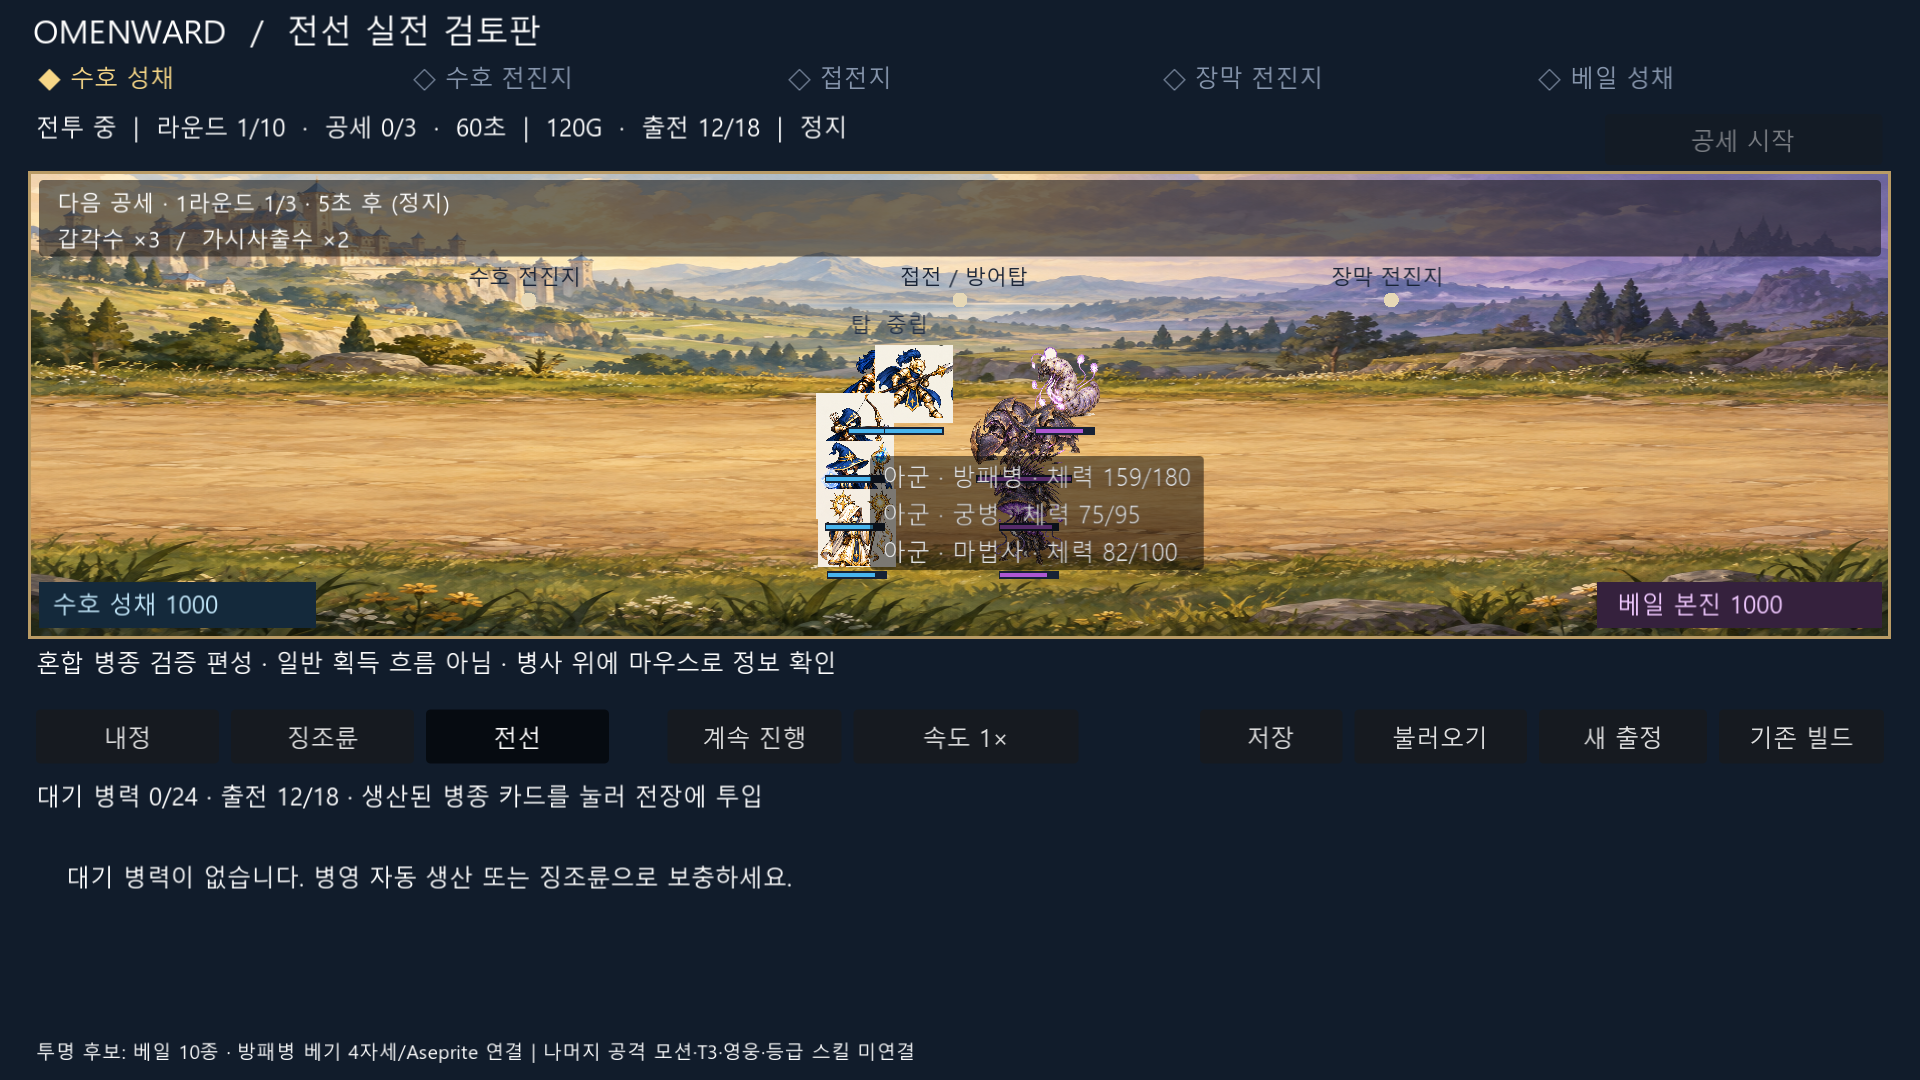
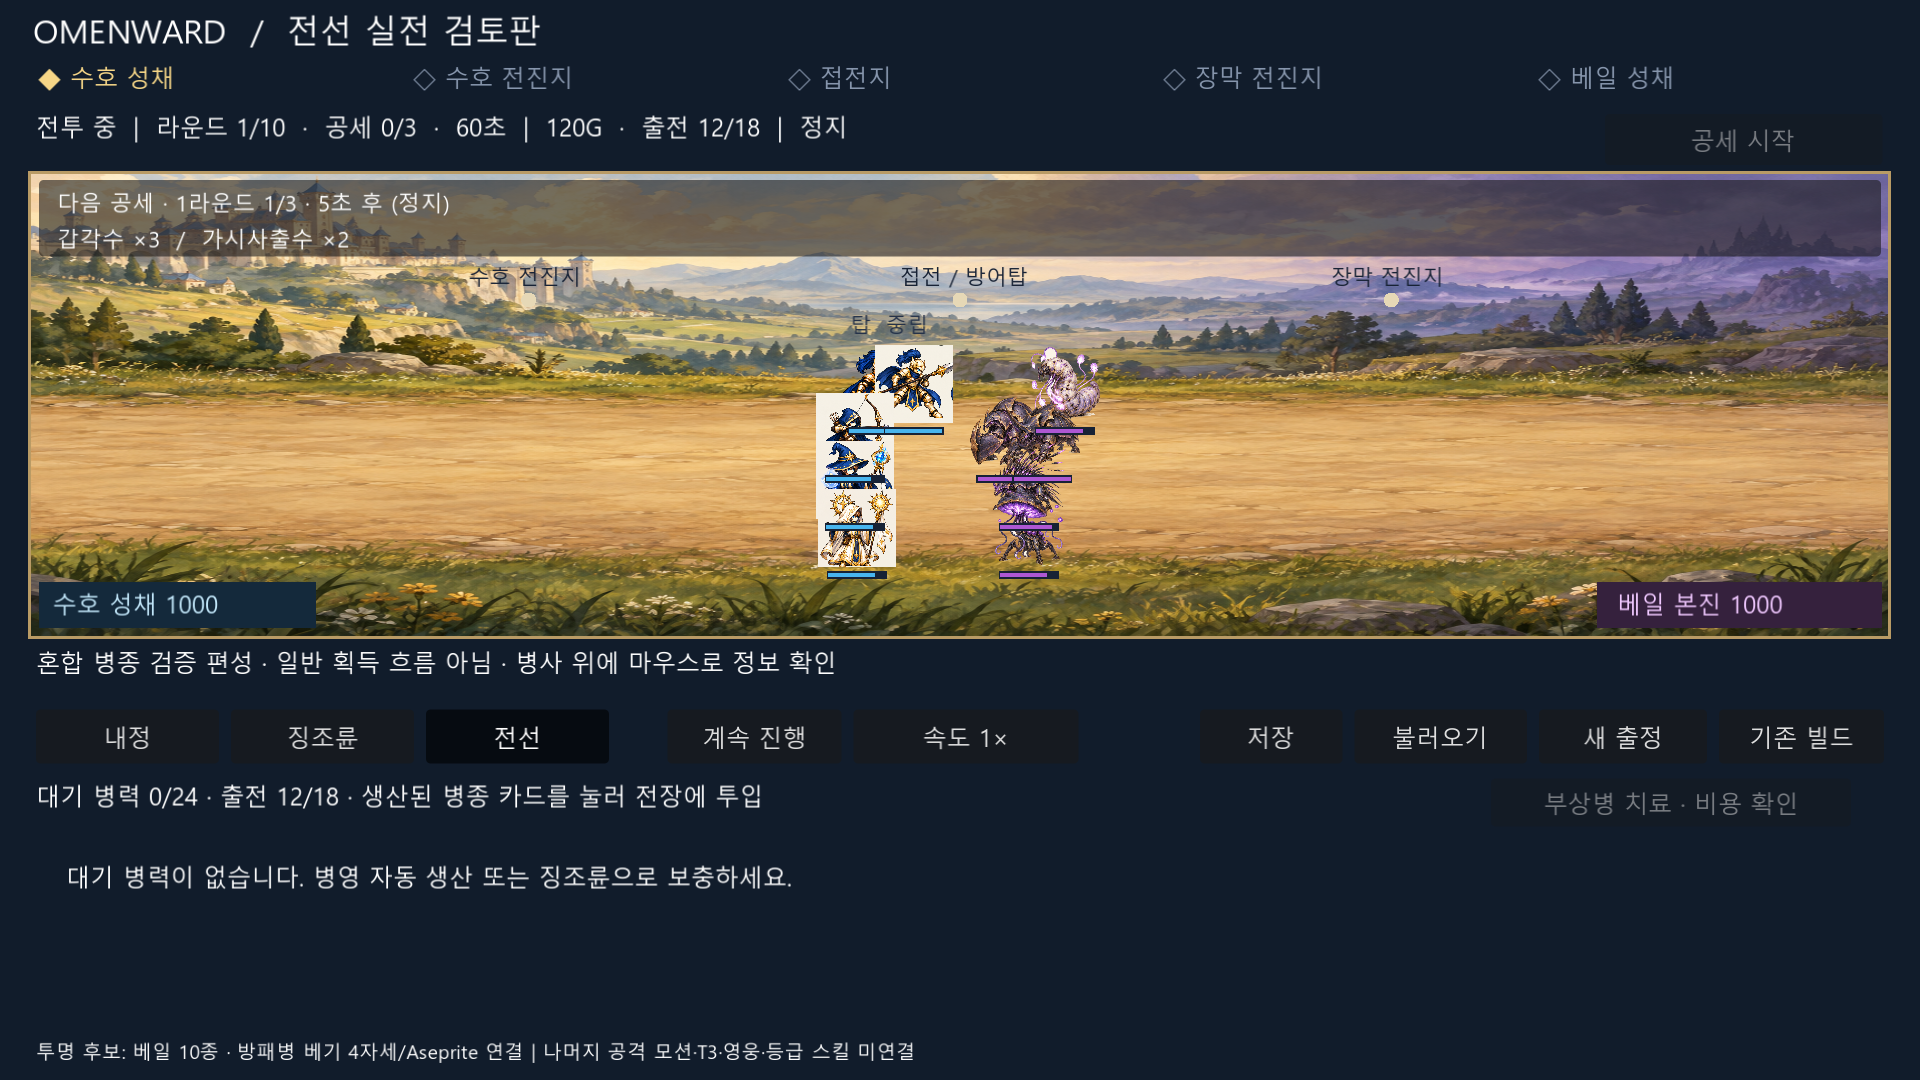
Connect paid refit recovery and real-resource policy diagnostics

Changed region(s): [[0.4375, 0.3972, 0.625, 0.55], [0.8125, 0.7333, 0.9375, 0.7639]]

diff --git a/tools/replan_scope.py b/tools/replan_scope.py
@@ -34,6 +34,7 @@ ALLOWED = {
     'output/front-battle.png', 'output/front-building.png',
     'output/front-battle-1080.png',
     'output/front-mixed.png', 'output/front-mixed-1080.png',
+    'output/front-recovery.png',
     'output/front-shield-windup.png', 'output/front-shield-impact.png', 'output/front-shield-recover.png',
     'tests/replan_slice_test.gd', 'tests/replan_slice_test.gd.uid',
     'tests/replan_screen_test.gd', 'tests/replan_screen_test.gd.uid',

diff --git a/docs/superpowers/plans/2026-09-11-visible-battle-slice.md b/docs/superpowers/plans/2026-09-11-visible-battle-slice.md
@@ -1,5 +1,23 @@
 # Visible battle and construction implementation plan
 
+## Current completion loop: research -> specification -> connected implementation -> playtest
+
+Latest execution evidence (supersedes the single-policy 79-check sample below): 81 model checks, UI/save/default scene PASS. Three actual-resource policies at seed1947 and 0.1-second steps: reinforcement/ranged/mixed all DEFEAT in round2; first refit allied0, enemy12/12/13, gold22/101/25, home HP1000; recovery spend0. No resource injection. These are reproducible policy diagnostics, not proof of optimal-play impossibility. Next investigate production, surviving enemy carryover and unimplemented acquisition decisions before tuning numbers. Independent five-perspective read-only review found no P0-P2 blocker; execution evidence remains separately owned by local test output and GPU capture. Recovery dialog first had overlapping direct children; fixed with one VBox content owner and visually rechecked.
+
+Latest user correction: the loop is whole-game completion through comparable-game research, specification, integration and testing, not cosmetic-only iteration. Each unit starts with an implementation plan and covers model/data/UI/assets/save/tests as applicable. Do not stop merely because one screenshot improves; identify the next gameplay gap. Routine technical decisions are delegated; core user rules, protected Git and final art/Human boundaries remain.
+
+Current gap map: (1) first-map preparation/combat/refit/result and viable initial choices, (2) roulette adjustment/commit/reserved capacity, (3) remaining troop abilities/T3/grades, (4) heroes, (5) five-map campaign/retention, (6) complete transparent art/motion, (7) front door/settings/release. Current UI-only next priority is superseded by connected first-map loop; opaque Ward art remains required, not discarded.
+
+### Paid recovery integration
+
+PLAN before code: connect existing Blueprint economics/recovery to refit decisions. ADAPT Thronefall economy-versus-defense preparation (https://store.steampowered.com/app/2239150/Thronefall/), The Last Spell rebuilding between attacks (https://store.steampowered.com/app/1105670/The_Last_Spell/), Commander Quest army composition (https://store.steampowered.com/app/2697930/Commander_Quest/). REJECT adopting kill-all night endings, hero turn control or new resources. Price is our existing Blueprint formula, not a copied game's price.
+
+Spec: heal_cost reads replenishment price units[row12], missingHP/maxHP and economy.heal_coefficient; heal_unit accepts living allied injured units only during PREPARE/REFIT, charges once and restores maxHP. No resurrection/automatic healing/combat-command heal. UI previews each target cost and remaining gold; insufficient funds disables actions. No save-schema change. This creates the concrete choice of recovery versus construction/specialization using the same gold.
+
+Implemented model and real frontline recovery dialog. RED missing transaction/entry -> GREEN 79model checks and UI/save/default gate. Tests include rounding, repeated request, enemy/dead/absent target, affordability, combat rejection, two buttons targeting separate units and save readback. GPU revealed overlapping dialog children: replaced separate auto-fitted children with a vertical content container, re-rendered successfully. Capture output/front-recovery.png is a labeled UI boundary fixture, not proof that the mixed army survived a full round.
+
+Real-resource first-map policy (no HP/gold injections): one general barracks per preparation until two, then archer specialization, free spin, affordable healing, deploy reserves and advance. Result DEFEAT round2, refits1, recovery_spend0. This is a reproducible weak-policy observation, NOT evidence all strategies fail or healing is balanced. Next loop compares multiple initial spend/production policies and identifies missing role/queue rules before tuning numbers. Do not silently tune the blueprint to make one scripted policy win.
+
 ## Mixed-role follow-up: plan, implementation, evidence
 
 User approved continuing the mixed-role readability loop. PLAN: reproduce shields/archers/mages/priests/spears on both sides, add bounded read-only hover inspection instead of increasing physical spacing or shrinking art, verify unchanged model and two resolutions. Existing Control tooltip is reused (https://docs.godotengine.org/en/stable/classes/class_control.html#class-control-private-method-get-tooltip); no third-party component or art replacement.

diff --git a/docs/ACTIVE_CONTEXT.md b/docs/ACTIVE_CONTEXT.md
@@ -1,5 +1,7 @@
 # [현행] OMENWARD Active Context
 
+2026-09-13 최신 루프 교정: 유사 장르 조사→기획 구체화→시스템 연결→구현→실제 실행→보완을 반복하며 UI 수정만으로 축소하지 않는다. 기존 Blueprint 개별 유료 치료를 준비/재정비 창·골드·HP·저장에 연결했다. 모델81검사 및 UI/저장/기본 실행 PASS. 치료 GPU 캡처는 명시적 혼합 부상병 경계 fixture이며 자연 생존 증거가 아니다. 시작 자원/seed1947/0.1초 간격의 병영 증설·궁병 전문화·일반/특수 혼합 운영은 모두 첫 재정비 아군0/적12~13, 2라운드 패배, 치료 지출0이었다. 최적 운영 불가능이나 전체 밸런스 FAIL 확정은 아니다. 다음은 초반 생산·공세·충원과 징조륜 선택 연결이며 아래 아트-only 우선순위를 대체한다. 전체 게임/Human/main 통합 미완료.
+
 혼합 병종 후속: 실제 병력 상태의 진영/이름/체력을 읽는 근접 hover 정보 추가(최대6행+초과 안내). 5병종×양측10유닛 검증 편성, 실제0.6초 전투10피해 처리 후720/1080 캡처. 720에서 마우스 입력→native 팝업 표시 확인. 일반 획득/밸런스 증거 아님. 혼합 검사에서 아군 방패병 외 도감의 불투명 흰 사각형이 확인되어 다음은 해당 소비 자산 투명화 계획이 우선. 모델68/UI·저장/기본실행 PASS; Human/전체 아트 미완료.
 
 2026-09-13 계획 승인 후 표시 개선: 고정 4단 깊이/최대24px 후방 표시 보정, 복사 배열 깊이 정렬, 체력바 후순위 표시. 전투 모델/저장 규칙은 변경하지 않았다. 68모델·화면/저장/기본실행 PASS, 표시 계산 포함230단계와 대조 모델 상태 일치. 720p/1080p GPU 화면 및 방패3상태 확인. 중첩은 감소했으나 동일 배치 반복/체력바 중첩은 PARTIAL. 전체 혼합 병종 시각 스트레스·Human은 남아 있다.

diff --git a/docs/OMENWARD_ROADMAP.md b/docs/OMENWARD_ROADMAP.md
@@ -1,5 +1,7 @@
 # [현행] OMENWARD Roadmap
 
+2026-09-13 최신 완성 루프: 유료 개별 치료의 경제/재정비/UI/저장 연결 완료. 실제 자원 3운영 모두 첫 재정비 생존 아군0·2라운드 패배. 다음 순서: 초반 생산/공세 잔류/충원과 미구현 명세 대조 → 징조륜 가중 대기 한도·행/열 조작·확정 거래 → 첫 맵 전체 흐름 복수 운영/난수 검증 → 5맵 전환·성장·영웅 명세 단위 확장. 아트/모션은 consumer와 함께 병행하며 기능 연결을 미루지 않는다. 수치 변경 전에 원인·플레이어 가치·회귀 계획을 기록한다. 아래 아트 우선 순서는 이 블록으로 대체한다.
+
 혼합 병종 검증 후 우선순위: 아군 궁병/마법사/사제/창병 등 불투명 도감 소비를 투명 전투 이미지로 교정하는 계획 → 동작/혼합 가독성 재검수 → 첫 맵 전체 흐름. 인근 병력 hover와 양측5병종 검증 캡처는 연결됨. 정보 팝업을 아트 완료나 접근성 완료로 간주하지 않는다.
 
 2026-09-13 전투 표시 1차: 제한된 엇갈림 배치·깊이 정렬·체력바 레이어 개선과 두 해상도 캡처 완료. 완전 무중첩은 아니며 다음은 혼합 병종 밀집·경계 장면 검증/보완 계획 → 첫 맵 준비~결과 전체 흐름 → 징조륜 선택 → 병종 성장/모션 → 5맵 확장이다. 각 구현 전 계획 우선, Human/전체 게임 완료와 분리한다.

diff --git a/docs/CURRENT_CONFIRMED_DECISIONS.md b/docs/CURRENT_CONFIRMED_DECISIONS.md
@@ -1,5 +1,7 @@
 # OMENWARD · Current Confirmed Decisions
 
+2026-09-13 최신 사용자 교정: 개선 루프는 유사 장르를 참고해 기획 구체화→시스템 연결→구현·실행 검증으로 게임 전체를 완성하는 반복이다. 국소 UI 수정만으로 축소하지 않는다. 매 단위 구현 전 계획을 먼저 수립한다. 이번은 기존 유료 치료 공식 구현과 실제 자원 운영 비교이며 결과를 다음 우선순위에 반영한다. 기술 선택은 반복 승인 없이 진행하되 핵심 의미 변경·최종 아트 승인·Git 보호 경계는 유지한다.
+
 2026-09-13 사용자: 앞으로 구현/수정 계획을 먼저 수립한 뒤 진행. 직전 전투 가독성 권장 계획을 승인했다. 기존 화면 표시만 개선하고 실제 전투 좌표·사거리·피해·성장 규칙은 유지한다. 향후도 범위/순서/검증 기준을 먼저 제시한다.
 
 2026-09-12 최신 사용자: Base fresh-read 후 벤치마킹·실무조사→구현→검증→개선 루프를 일상적인 별도 승인 없이 계속 수행하도록 위임했다. 이번 적용은 기존 단일 전선 검토판 UI의 실제 공세 예보와 생산 상태 관측이다. 임의의 핵심 게임 의미 변경, 최종 아트/Human 승인, 다른 PR 흡수, main 직접 push 및 Base lock 교체로 확대하지 않는다. 정확한 조사·실행·잔여 작업은 기존 visible-battle-slice 계획이 소유한다.

diff --git a/docs/process/APPROVED_REPLAN_UI_MOTION_BUILD_SCOPE_20260911.md b/docs/process/APPROVED_REPLAN_UI_MOTION_BUILD_SCOPE_20260911.md
@@ -14,6 +14,8 @@ The project router's generic stop rule is superseded **only for this explicit ap
 
 ## Evidence and integration
 
+Latest user clarified autonomous completion means research -> specify -> connect -> implement -> playtest across the game, not repeated cosmetic-only fixes. This bounded continuation implements the already specified paid individual recovery in front_run/front_screen with tests and exact output/front-recovery.png. Blueprint formula and heal_coefficient remain owner inputs. No automatic healing, resurrection, combat healing command, save schema change or Base protection bypass. Broader blueprint features still need explicit per-unit planning/specification and exact scope amendments under this delegation.
+
 2026-09-13 mixed-role continuation: read-only native tooltip in existing screen and explicitly labeled mixed-role GPU fixture. Exact output/front-mixed.png and output/front-mixed-1080.png added; no model, save, art source or acquisition changes. Fixture uses spawn only in tests and is not ordinary gameplay/balance evidence.
 
 2026-09-13 user approved the presented combat-readability plan. Display-only bounded stagger/depth order and health-bar presentation stay in front_screen.gd; front_run rules/save remain unchanged. Add exact output/front-battle-1080.png for the required second-resolution GPU capture under the same scope. No new art or game rule is approved by this amendment.
